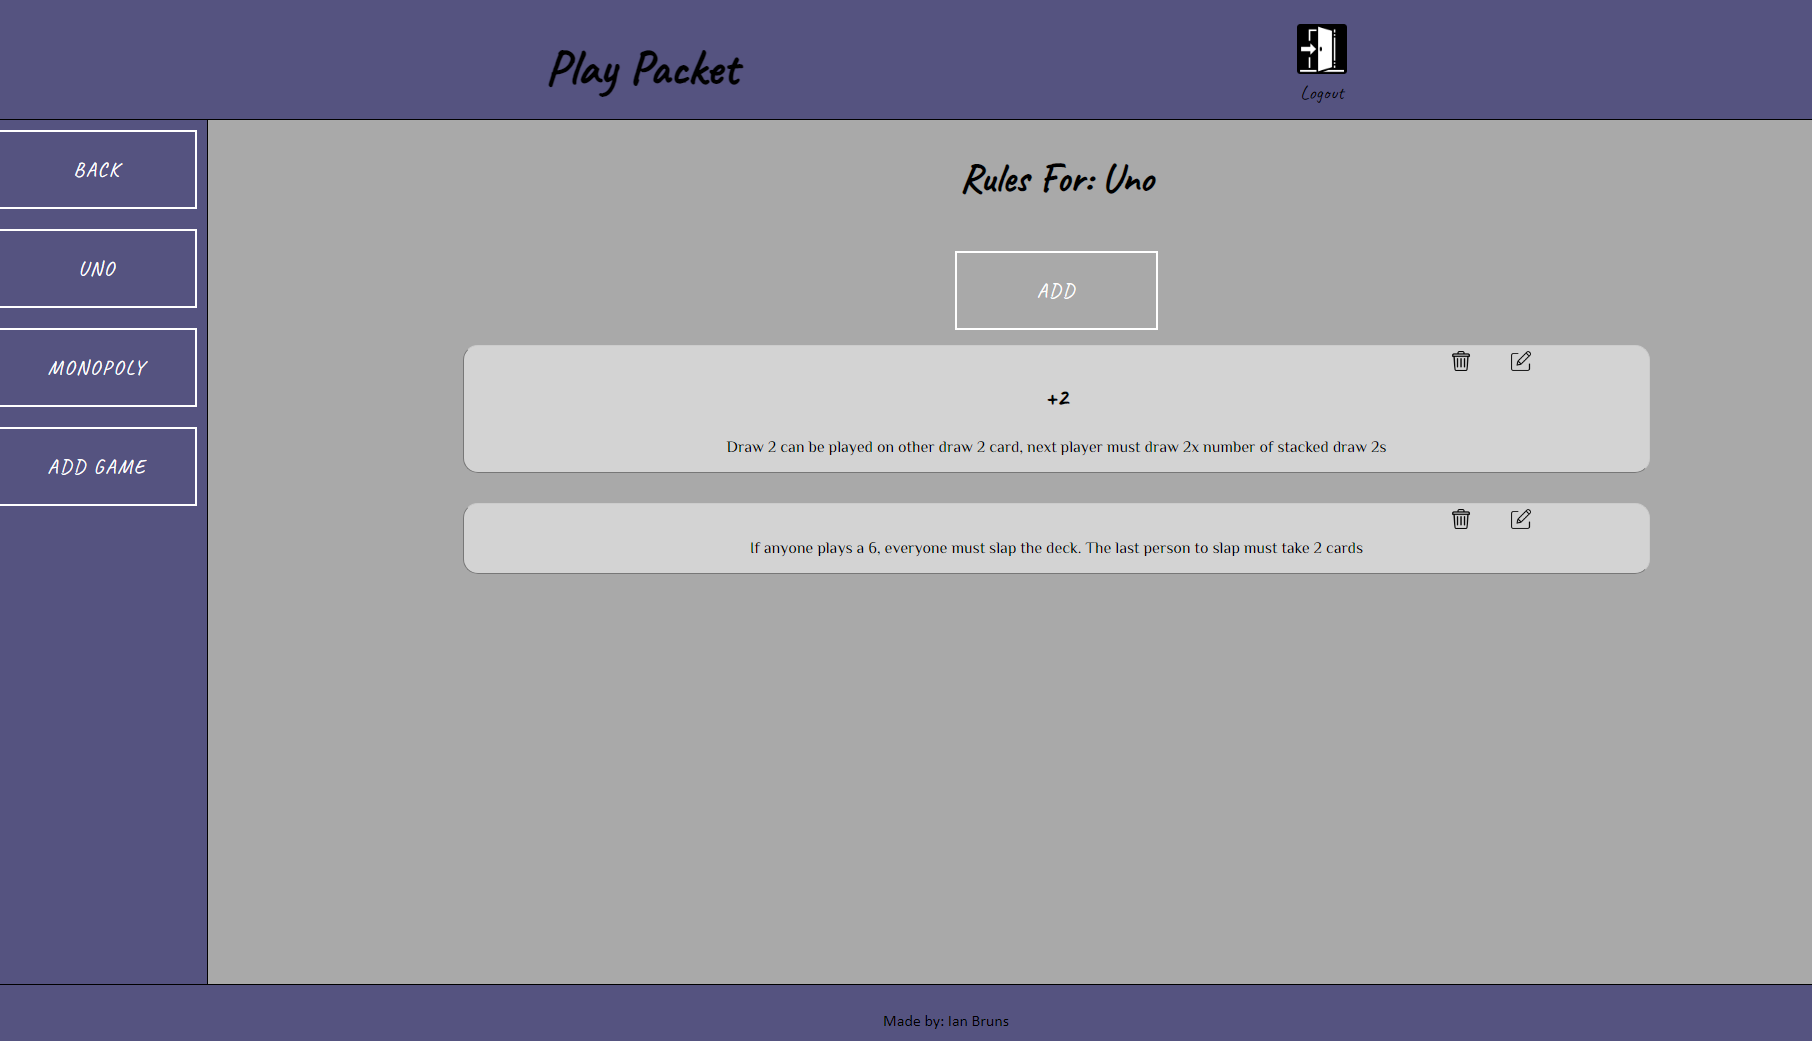
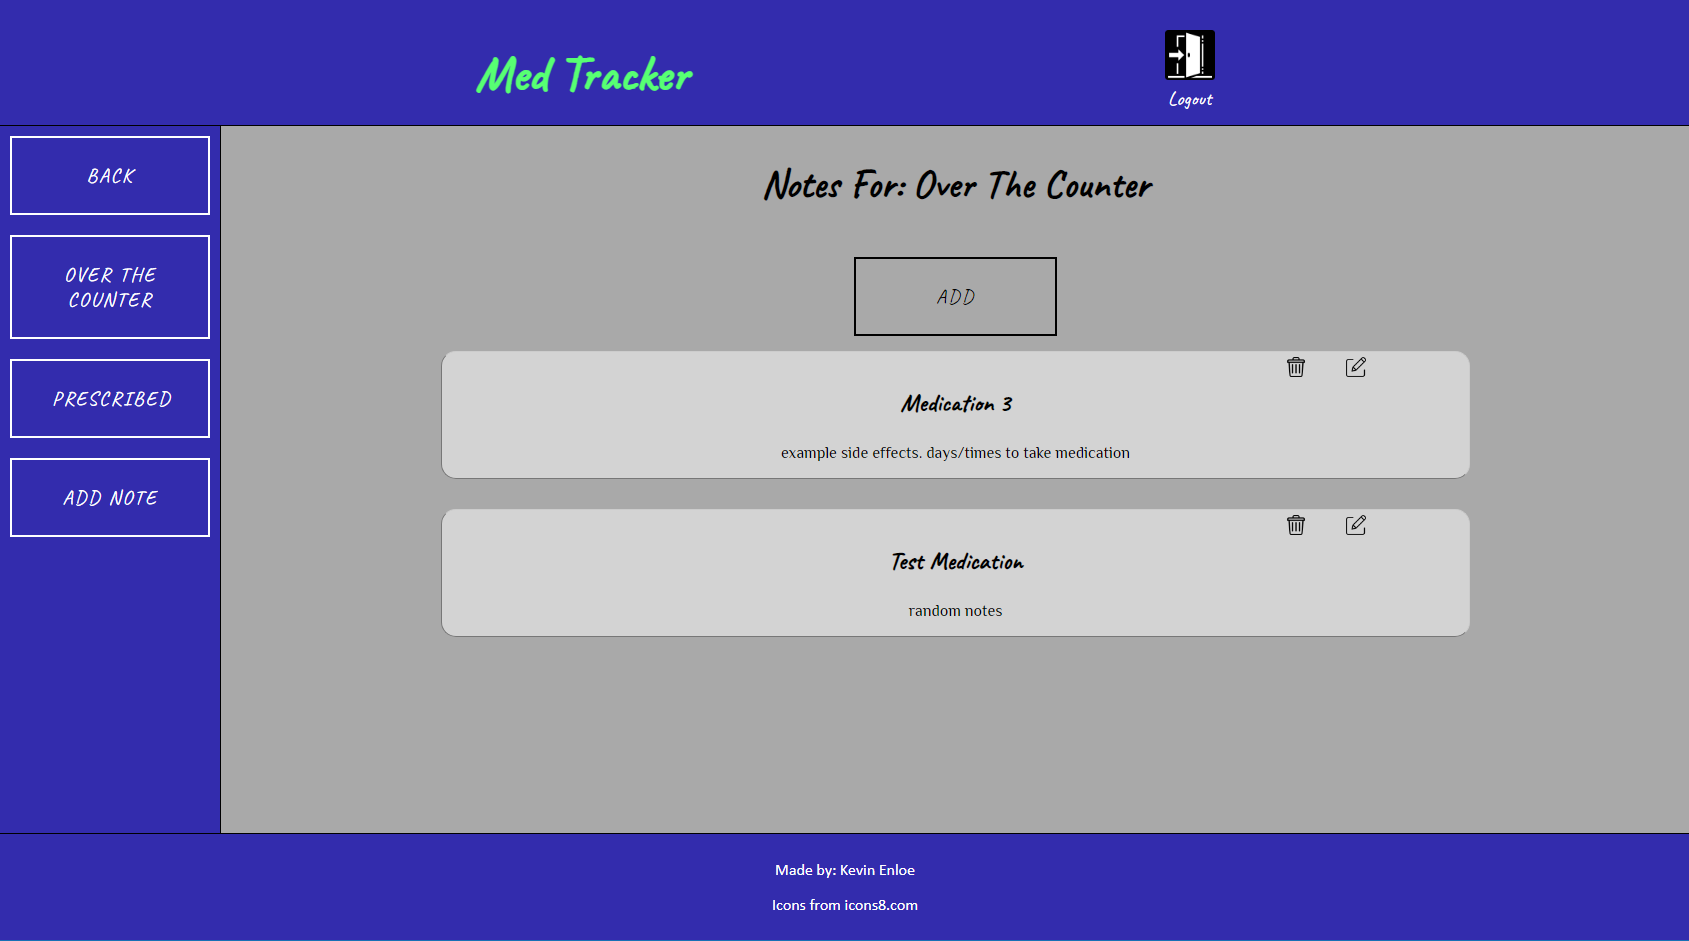
new

diff --git a/src/components/SideBar/SideBar.js b/src/components/SideBar/SideBar.js
@@ -36,14 +36,14 @@ export default function SideBar(props) {
             {props.category === 'search' && (
                 <Link to='/Search'>
                     <button>
-                        All Games
+                        All Medication Types
                     </button>
                 </Link>
             )}
             {props.category === 'usersgames' && (
                 <Link to='/Add'>
                     <button>
-                        Add Game
+                        Add Note
                     </button>
                 </Link>
             )}

diff --git a/src/routes/GameRulesPage/GameRulesPage.js b/src/routes/GameRulesPage/GameRulesPage.js
@@ -67,7 +67,7 @@ export default function GamesRulesPage(props) {
                     </div>
                 )}
                 <div className='userRules'>
-                    <h2>Rules For: {name}</h2>
+                    <h2>Notes For: {name}</h2>
                     <button onClick={() => setAdding(!adding)}>
                         {adding === false
                             ? 'Add'

diff --git a/src/routes/RulesPage/RulesPage.js b/src/routes/RulesPage/RulesPage.js
@@ -24,7 +24,7 @@ export default function RulesPage(props) {
             <div className='gameSelect'>
                 {gameOptions}
             </div>
-            <p>Want to add a rule to a new game? <Link to='/Add'>Click here!</Link></p>
+            <p>Want to add a new note? <Link to='/Add'>Click here!</Link></p>
         </div>
     )
 }

diff --git a/src/config.js b/src/config.js
@@ -1,6 +1,6 @@
 const config = {
-    API_ENDPOINT: 'https://playpacket.herokuapp.com/api',
-    TOKEN_KEY: 'playpacket-client-auth-token',
+    API_ENDPOINT: 'https://immense-cove-53758.herokuapp.com/api',
+    TOKEN_KEY: 'medtraccker-client-auth-token',
 }
 
 export default config;

diff --git a/README.md b/README.md
@@ -1,6 +1,6 @@
 # Med Tracker
 
-https://playpacket.vercel.app/
+https://med-tracker-enloe92.vercel.app/
 
 ## Screenshot
 
@@ -11,9 +11,9 @@ https://playpacket.vercel.app/
 ## SUMMARY
 
 This is the client for the Med Tracker API, where users can create/store/share
-the home rules to the games that they play.
+their notes about their medications and their side effects.
 
-Med Tracker API: https://github.com/IanBruns/playpacket-server
+Med Tracker API: 
 
 ## Technology used
 
@@ -25,4 +25,4 @@ Client end:
 ## Contact info
 
 For any suggestions, questions, or job opportunities (hint), please feel free to 
-contact me at ian@rbruns.com
+contact me at enloe92@gmail.com
